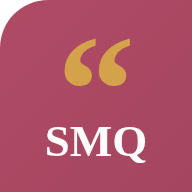
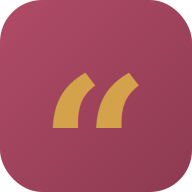
Add files via upload

diff --git a/index.html b/index.html
@@ -3,11 +3,15 @@
 <head>
 <meta charset="utf-8">
 <meta name="viewport" content="width=device-width,initial-scale=1">
-<title>Strong Mom Quotes: Free Quotes and Quote Card Maker</title>
+<title>Strong Mom Quotes: Free Mom Quotes & Quote Card Maker</title>
 <meta name="description" content="Hundreds of original strong mom quotes, free to read, copy and share. Turn any quote into a beautiful Pinterest or Instagram card with our free card maker.">
 <link rel="canonical" href="https://strongmomquotes.com/">
+<meta name="robots" content="index, follow, max-image-preview:large, max-snippet:-1, max-video-preview:-1">
+<meta name="theme-color" content="#A64D63">
+<meta name="keywords" content="strong mom quotes, mom quotes, free mom quotes, mom affirmations, quote card maker, mom quote images, encouraging quotes for moms, Pinterest mom quotes, Instagram mom quotes">
+<meta property="og:locale" content="en_US">
 <meta property="og:type" content="website">
-<meta property="og:title" content="Strong Mom Quotes: Free Quotes and Quote Card Maker">
+<meta property="og:title" content="Strong Mom Quotes: Free Mom Quotes & Quote Card Maker">
 <meta property="og:description" content="Hundreds of original strong mom quotes, free to read, copy and share. Turn any quote into a beautiful shareable card with our free card maker.">
 <meta property="og:url" content="https://strongmomquotes.com/">
 <meta property="og:image" content="https://strongmomquotes.com/og/home.png">
@@ -16,18 +20,18 @@
 <meta name="twitter:image" content="https://strongmomquotes.com/og/home.png">
 <meta property="og:site_name" content="Strong Mom Quotes">
 <meta name="twitter:card" content="summary_large_image">
-<meta name="twitter:title" content="Strong Mom Quotes: Free Quotes and Quote Card Maker">
+<meta name="twitter:title" content="Strong Mom Quotes: Free Mom Quotes & Quote Card Maker">
 <meta name="twitter:description" content="Hundreds of original strong mom quotes, free to read, copy and share. Turn any quote into a beautiful shareable card with our free card maker.">
 <link rel="manifest" href="/manifest.json">
 <link rel="preconnect" href="https://fonts.googleapis.com">
 <link rel="preconnect" href="https://fonts.gstatic.com" crossorigin>
 <link href="https://fonts.googleapis.com/css2?family=Fraunces:ital,wght@0,500;0,600;0,700;1,500&family=Karla:wght@400;700;800&display=swap" rel="stylesheet">
-<link rel="stylesheet" href="/styles.css?v=4">
+<link rel="stylesheet" href="/styles.css?v=5">
 <script async src="https://pagead2.googlesyndication.com/pagead/js/adsbygoogle.js?client=ca-pub-4138594802747479" crossorigin="anonymous"></script>
 <script type="application/ld+json">
 {"@context":"https://schema.org","@graph":[
 {"@type":"Organization","@id":"https://strongmomquotes.com/#org","name":"Strong Mom Quotes","url":"https://strongmomquotes.com/","logo":"https://strongmomquotes.com/icon-512.png","email":"[email redacted]"},
-{"@type":"WebSite","@id":"https://strongmomquotes.com/#site","name":"Strong Mom Quotes","url":"https://strongmomquotes.com/","publisher":{"@id":"https://strongmomquotes.com/#org"}},
+{"@type":"WebSite","@id":"https://strongmomquotes.com/#site","name":"Strong Mom Quotes","alternateName":"SMQ","description":"Free original strong mom quotes, mom affirmations and a free quote card maker for Pinterest, Instagram and stories.","inLanguage":"en","url":"https://strongmomquotes.com/","publisher":{"@id":"https://strongmomquotes.com/#org"}},
 {"@type":"WebApplication","@id":"https://strongmomquotes.com/#app","name":"Strong Mom Quotes Card Maker","url":"https://strongmomquotes.com/app.html","applicationCategory":"DesignApplication","operatingSystem":"Any device with a web browser","offers":{"@type":"Offer","price":"0","priceCurrency":"USD"},"featureList":"Quote card maker with Pinterest, Instagram and story sizes, custom backgrounds and fonts, favorites, write your own quotes, daily quote, works offline after first load, backup and restore","publisher":{"@id":"https://strongmomquotes.com/#org"}}
 ]}
 </script>
@@ -47,6 +51,7 @@
 </script>
 <link rel="icon" type="image/svg+xml" href="/favicon.svg">
 <link rel="icon" type="image/png" sizes="32x32" href="/favicon-32.png">
+<link rel="icon" type="image/png" sizes="48x48" href="/favicon-48.png">
 <link rel="apple-touch-icon" href="/apple-touch-icon.png">
 </head>
 <body>

diff --git a/grandma-affirmations.html b/grandma-affirmations.html
@@ -16,12 +16,13 @@
 <meta name="twitter:description" content="Affirmations for Grandmothers that acknowledge the hard parts, never toxic positivity. Free to read, copy or turn into a card.">
 <link rel="icon" type="image/svg+xml" href="/favicon.svg">
 <link rel="icon" type="image/png" sizes="32x32" href="/favicon-32.png">
+<link rel="icon" type="image/png" sizes="48x48" href="/favicon-48.png">
 <link rel="apple-touch-icon" href="/apple-touch-icon.png">
 <link rel="manifest" href="/manifest.json">
 <link rel="preconnect" href="https://fonts.googleapis.com">
 <link rel="preconnect" href="https://fonts.gstatic.com" crossorigin>
 <link href="https://fonts.googleapis.com/css2?family=Fraunces:ital,wght@0,500;0,600;0,700;1,500&family=Karla:wght@400;700;800&display=swap" rel="stylesheet">
-<link rel="stylesheet" href="/styles.css?v=4">
+<link rel="stylesheet" href="/styles.css?v=5">
 <script async src="https://pagead2.googlesyndication.com/pagead/js/adsbygoogle.js?client=ca-pub-4138594802747479" crossorigin="anonymous"></script>
 <script type="application/ld+json">{"@context": "https://schema.org", "@type": "BreadcrumbList", "itemListElement": [{"@type": "ListItem", "position": 1, "name": "Strong Mom Quotes", "item": "https://strongmomquotes.com/"}, {"@type": "ListItem", "position": 2, "name": "Affirmations", "item": "https://strongmomquotes.com/affirmations-hub.html"}, {"@type": "ListItem", "position": 3, "name": "Affirmations for Grandmothers", "item": "https://strongmomquotes.com/grandma-affirmations.html"}]}</script>
 <script type="application/ld+json">{"@context": "https://schema.org", "@type": "CollectionPage", "name": "Affirmations for Grandmothers | Strong Mom Quotes", "description": "Affirmations for Grandmothers that acknowledge the hard parts, never toxic positivity. Free to read, copy or turn into a card.", "url": "https://strongmomquotes.com/grandma-affirmations.html", "isPartOf": {"@type": "WebSite", "name": "Strong Mom Quotes", "url": "https://strongmomquotes.com/"}}</script>

diff --git a/grandma-captions.html b/grandma-captions.html
@@ -16,12 +16,13 @@
 <meta name="twitter:description" content="Grandma Captions built for the scroll: short, real, copy in one tap. Or drop one onto a matching card. Currently free.">
 <link rel="icon" type="image/svg+xml" href="/favicon.svg">
 <link rel="icon" type="image/png" sizes="32x32" href="/favicon-32.png">
+<link rel="icon" type="image/png" sizes="48x48" href="/favicon-48.png">
 <link rel="apple-touch-icon" href="/apple-touch-icon.png">
 <link rel="manifest" href="/manifest.json">
 <link rel="preconnect" href="https://fonts.googleapis.com">
 <link rel="preconnect" href="https://fonts.gstatic.com" crossorigin>
 <link href="https://fonts.googleapis.com/css2?family=Fraunces:ital,wght@0,500;0,600;0,700;1,500&family=Karla:wght@400;700;800&display=swap" rel="stylesheet">
-<link rel="stylesheet" href="/styles.css?v=4">
+<link rel="stylesheet" href="/styles.css?v=5">
 <script async src="https://pagead2.googlesyndication.com/pagead/js/adsbygoogle.js?client=ca-pub-4138594802747479" crossorigin="anonymous"></script>
 <script type="application/ld+json">{"@context": "https://schema.org", "@type": "BreadcrumbList", "itemListElement": [{"@type": "ListItem", "position": 1, "name": "Strong Mom Quotes", "item": "https://strongmomquotes.com/"}, {"@type": "ListItem", "position": 2, "name": "Captions & Occasions", "item": "https://strongmomquotes.com/captions-hub.html"}, {"@type": "ListItem", "position": 3, "name": "Grandma Captions", "item": "https://strongmomquotes.com/grandma-captions.html"}]}</script>
 <script type="application/ld+json">{"@context": "https://schema.org", "@type": "CollectionPage", "name": "Grandma Captions: One-Liners That Fit the Photo", "description": "Grandma Captions built for the scroll: short, real, copy in one tap. Or drop one onto a matching card. Currently free.", "url": "https://strongmomquotes.com/grandma-captions.html", "isPartOf": {"@type": "WebSite", "name": "Strong Mom Quotes", "url": "https://strongmomquotes.com/"}}</script>

diff --git a/grandma-quotes.html b/grandma-quotes.html
@@ -16,12 +16,13 @@
 <meta name="twitter:description" content="Original grandma quotes, free to read and copy. Turn any one into a shareable card in seconds. Currently free.">
 <link rel="icon" type="image/svg+xml" href="/favicon.svg">
 <link rel="icon" type="image/png" sizes="32x32" href="/favicon-32.png">
+<link rel="icon" type="image/png" sizes="48x48" href="/favicon-48.png">
 <link rel="apple-touch-icon" href="/apple-touch-icon.png">
 <link rel="manifest" href="/manifest.json">
 <link rel="preconnect" href="https://fonts.googleapis.com">
 <link rel="preconnect" href="https://fonts.gstatic.com" crossorigin>
 <link href="https://fonts.googleapis.com/css2?family=Fraunces:ital,wght@0,500;0,600;0,700;1,500&family=Karla:wght@400;700;800&display=swap" rel="stylesheet">
-<link rel="stylesheet" href="/styles.css?v=4">
+<link rel="stylesheet" href="/styles.css?v=5">
 <script async src="https://pagead2.googlesyndication.com/pagead/js/adsbygoogle.js?client=ca-pub-4138594802747479" crossorigin="anonymous"></script>
 <script type="application/ld+json">{"@context": "https://schema.org", "@type": "BreadcrumbList", "itemListElement": [{"@type": "ListItem", "position": 1, "name": "Strong Mom Quotes", "item": "https://strongmomquotes.com/"}, {"@type": "ListItem", "position": 2, "name": "Mom Quote Collections", "item": "https://strongmomquotes.com/collections-hub.html"}, {"@type": "ListItem", "position": 3, "name": "Grandma Quotes", "item": "https://strongmomquotes.com/grandma-quotes.html"}]}</script>
 <script type="application/ld+json">{"@context": "https://schema.org", "@type": "CollectionPage", "name": "Grandma Quotes: Original Words to Read, Copy and Share", "description": "Original grandma quotes, free to read and copy. Turn any one into a shareable card in seconds. Currently free.", "url": "https://strongmomquotes.com/grandma-quotes.html", "isPartOf": {"@type": "WebSite", "name": "Strong Mom Quotes", "url": "https://strongmomquotes.com/"}}</script>

diff --git a/healing-mom-quotes.html b/healing-mom-quotes.html
@@ -16,12 +16,13 @@
 <meta name="twitter:description" content="Original healing mom quotes, free to read and copy, and one tap from a shareable card. Written here, never misattributed.">
 <link rel="icon" type="image/svg+xml" href="/favicon.svg">
 <link rel="icon" type="image/png" sizes="32x32" href="/favicon-32.png">
+<link rel="icon" type="image/png" sizes="48x48" href="/favicon-48.png">
 <link rel="apple-touch-icon" href="/apple-touch-icon.png">
 <link rel="manifest" href="/manifest.json">
 <link rel="preconnect" href="https://fonts.googleapis.com">
 <link rel="preconnect" href="https://fonts.gstatic.com" crossorigin>
 <link href="https://fonts.googleapis.com/css2?family=Fraunces:ital,wght@0,500;0,600;0,700;1,500&family=Karla:wght@400;700;800&display=swap" rel="stylesheet">
-<link rel="stylesheet" href="/styles.css?v=4">
+<link rel="stylesheet" href="/styles.css?v=5">
 <script async src="https://pagead2.googlesyndication.com/pagead/js/adsbygoogle.js?client=ca-pub-4138594802747479" crossorigin="anonymous"></script>
 <script type="application/ld+json">{"@context": "https://schema.org", "@type": "BreadcrumbList", "itemListElement": [{"@type": "ListItem", "position": 1, "name": "Strong Mom Quotes", "item": "https://strongmomquotes.com/"}, {"@type": "ListItem", "position": 2, "name": "Affirmations", "item": "https://strongmomquotes.com/affirmations-hub.html"}, {"@type": "ListItem", "position": 3, "name": "Healing Mom Quotes", "item": "https://strongmomquotes.com/healing-mom-quotes.html"}]}</script>
 <script type="application/ld+json">{"@context": "https://schema.org", "@type": "CollectionPage", "name": "Healing Mom Quotes: Original Words to Read, Copy and Share", "description": "Original healing mom quotes, free to read and copy, and one tap from a shareable card. Written here, never misattributed.", "url": "https://strongmomquotes.com/healing-mom-quotes.html", "isPartOf": {"@type": "WebSite", "name": "Strong Mom Quotes", "url": "https://strongmomquotes.com/"}}</script>

diff --git a/inspirational-mom-quotes.html b/inspirational-mom-quotes.html
@@ -16,12 +16,13 @@
 <meta name="twitter:description" content="Inspirational Mom Quotes: short enough for a caption, a card or a print. Free to copy, or make a matching card.">
 <link rel="icon" type="image/svg+xml" href="/favicon.svg">
 <link rel="icon" type="image/png" sizes="32x32" href="/favicon-32.png">
+<link rel="icon" type="image/png" sizes="48x48" href="/favicon-48.png">
 <link rel="apple-touch-icon" href="/apple-touch-icon.png">
 <link rel="manifest" href="/manifest.json">
 <link rel="preconnect" href="https://fonts.googleapis.com">
 <link rel="preconnect" href="https://fonts.gstatic.com" crossorigin>
 <link href="https://fonts.googleapis.com/css2?family=Fraunces:ital,wght@0,500;0,600;0,700;1,500&family=Karla:wght@400;700;800&display=swap" rel="stylesheet">
-<link rel="stylesheet" href="/styles.css?v=4">
+<link rel="stylesheet" href="/styles.css?v=5">
 <script async src="https://pagead2.googlesyndication.com/pagead/js/adsbygoogle.js?client=ca-pub-4138594802747479" crossorigin="anonymous"></script>
 <script type="application/ld+json">{"@context": "https://schema.org", "@type": "BreadcrumbList", "itemListElement": [{"@type": "ListItem", "position": 1, "name": "Strong Mom Quotes", "item": "https://strongmomquotes.com/"}, {"@type": "ListItem", "position": 2, "name": "Short & Format", "item": "https://strongmomquotes.com/formats-hub.html"}, {"@type": "ListItem", "position": 3, "name": "Inspirational Mom Quotes", "item": "https://strongmomquotes.com/inspirational-mom-quotes.html"}]}</script>
 <script type="application/ld+json">{"@context": "https://schema.org", "@type": "CollectionPage", "name": "Inspirational Mom Quotes: Made to Fit Anywhere", "description": "Inspirational Mom Quotes: short enough for a caption, a card or a print. Free to copy, or make a matching card.", "url": "https://strongmomquotes.com/inspirational-mom-quotes.html", "isPartOf": {"@type": "WebSite", "name": "Strong Mom Quotes", "url": "https://strongmomquotes.com/"}}</script>

diff --git a/loss-affirmations.html b/loss-affirmations.html
@@ -16,12 +16,13 @@
 <meta name="twitter:description" content="Gentle Affirmations After Loss that acknowledge the hard parts, never toxic positivity. Free to read, copy or turn into a card to keep.">
 <link rel="icon" type="image/svg+xml" href="/favicon.svg">
 <link rel="icon" type="image/png" sizes="32x32" href="/favicon-32.png">
+<link rel="icon" type="image/png" sizes="48x48" href="/favicon-48.png">
 <link rel="apple-touch-icon" href="/apple-touch-icon.png">
 <link rel="manifest" href="/manifest.json">
 <link rel="preconnect" href="https://fonts.googleapis.com">
 <link rel="preconnect" href="https://fonts.gstatic.com" crossorigin>
 <link href="https://fonts.googleapis.com/css2?family=Fraunces:ital,wght@0,500;0,600;0,700;1,500&family=Karla:wght@400;700;800&display=swap" rel="stylesheet">
-<link rel="stylesheet" href="/styles.css?v=4">
+<link rel="stylesheet" href="/styles.css?v=5">
 <script async src="https://pagead2.googlesyndication.com/pagead/js/adsbygoogle.js?client=ca-pub-4138594802747479" crossorigin="anonymous"></script>
 <script type="application/ld+json">{"@context": "https://schema.org", "@type": "BreadcrumbList", "itemListElement": [{"@type": "ListItem", "position": 1, "name": "Strong Mom Quotes", "item": "https://strongmomquotes.com/"}, {"@type": "ListItem", "position": 2, "name": "Affirmations", "item": "https://strongmomquotes.com/affirmations-hub.html"}, {"@type": "ListItem", "position": 3, "name": "Gentle Affirmations After Loss", "item": "https://strongmomquotes.com/loss-affirmations.html"}]}</script>
 <script type="application/ld+json">{"@context": "https://schema.org", "@type": "CollectionPage", "name": "Gentle Affirmations After Loss | Strong Mom Quotes", "description": "Gentle Affirmations After Loss that acknowledge the hard parts, never toxic positivity. Free to read, copy or turn into a card to keep.", "url": "https://strongmomquotes.com/loss-affirmations.html", "isPartOf": {"@type": "WebSite", "name": "Strong Mom Quotes", "url": "https://strongmomquotes.com/"}}</script>

diff --git a/missing-my-mom-quotes.html b/missing-my-mom-quotes.html
@@ -16,12 +16,13 @@
 <meta name="twitter:description" content="Original missing my mom quotes, free to read and copy, and one tap from a shareable card. Written here, never misattributed.">
 <link rel="icon" type="image/svg+xml" href="/favicon.svg">
 <link rel="icon" type="image/png" sizes="32x32" href="/favicon-32.png">
+<link rel="icon" type="image/png" sizes="48x48" href="/favicon-48.png">
 <link rel="apple-touch-icon" href="/apple-touch-icon.png">
 <link rel="manifest" href="/manifest.json">
 <link rel="preconnect" href="https://fonts.googleapis.com">
 <link rel="preconnect" href="https://fonts.gstatic.com" crossorigin>
 <link href="https://fonts.googleapis.com/css2?family=Fraunces:ital,wght@0,500;0,600;0,700;1,500&family=Karla:wght@400;700;800&display=swap" rel="stylesheet">
-<link rel="stylesheet" href="/styles.css?v=4">
+<link rel="stylesheet" href="/styles.css?v=5">
 <script async src="https://pagead2.googlesyndication.com/pagead/js/adsbygoogle.js?client=ca-pub-4138594802747479" crossorigin="anonymous"></script>
 <script type="application/ld+json">{"@context": "https://schema.org", "@type": "BreadcrumbList", "itemListElement": [{"@type": "ListItem", "position": 1, "name": "Strong Mom Quotes", "item": "https://strongmomquotes.com/"}, {"@type": "ListItem", "position": 2, "name": "Quotes About", "item": "https://strongmomquotes.com/quotes-about-hub.html"}, {"@type": "ListItem", "position": 3, "name": "Missing My Mom Quotes", "item": "https://strongmomquotes.com/missing-my-mom-quotes.html"}]}</script>
 <script type="application/ld+json">{"@context": "https://schema.org", "@type": "CollectionPage", "name": "Missing My Mom Quotes | Strong Mom Quotes", "description": "Original missing my mom quotes, free to read and copy, and one tap from a shareable card. Written here, never misattributed.", "url": "https://strongmomquotes.com/missing-my-mom-quotes.html", "isPartOf": {"@type": "WebSite", "name": "Strong Mom Quotes", "url": "https://strongmomquotes.com/"}}</script>

diff --git a/mom-and-daughter-captions.html b/mom-and-daughter-captions.html
@@ -16,12 +16,13 @@
 <meta name="twitter:description" content="Mom and Daughter Captions built for the scroll: short, real, copy in one tap. Or drop one onto a matching card. Currently free.">
 <link rel="icon" type="image/svg+xml" href="/favicon.svg">
 <link rel="icon" type="image/png" sizes="32x32" href="/favicon-32.png">
+<link rel="icon" type="image/png" sizes="48x48" href="/favicon-48.png">
 <link rel="apple-touch-icon" href="/apple-touch-icon.png">
 <link rel="manifest" href="/manifest.json">
 <link rel="preconnect" href="https://fonts.googleapis.com">
 <link rel="preconnect" href="https://fonts.gstatic.com" crossorigin>
 <link href="https://fonts.googleapis.com/css2?family=Fraunces:ital,wght@0,500;0,600;0,700;1,500&family=Karla:wght@400;700;800&display=swap" rel="stylesheet">
-<link rel="stylesheet" href="/styles.css?v=4">
+<link rel="stylesheet" href="/styles.css?v=5">
 <script async src="https://pagead2.googlesyndication.com/pagead/js/adsbygoogle.js?client=ca-pub-4138594802747479" crossorigin="anonymous"></script>
 <script type="application/ld+json">{"@context": "https://schema.org", "@type": "BreadcrumbList", "itemListElement": [{"@type": "ListItem", "position": 1, "name": "Strong Mom Quotes", "item": "https://strongmomquotes.com/"}, {"@type": "ListItem", "position": 2, "name": "Captions & Occasions", "item": "https://strongmomquotes.com/captions-hub.html"}, {"@type": "ListItem", "position": 3, "name": "Mom and Daughter Captions", "item": "https://strongmomquotes.com/mom-and-daughter-captions.html"}]}</script>
 <script type="application/ld+json">{"@context": "https://schema.org", "@type": "CollectionPage", "name": "Mom and Daughter Captions: One-Liners That Fit the Photo", "description": "Mom and Daughter Captions built for the scroll: short, real, copy in one tap. Or drop one onto a matching card. Currently free.", "url": "https://strongmomquotes.com/mom-and-daughter-captions.html", "isPartOf": {"@type": "WebSite", "name": "Strong Mom Quotes", "url": "https://strongmomquotes.com/"}}</script>

diff --git a/mom-and-son-captions.html b/mom-and-son-captions.html
@@ -16,12 +16,13 @@
 <meta name="twitter:description" content="Mom and Son Captions built for the scroll: short, real, copy in one tap. Or drop one onto a matching card. Currently free.">
 <link rel="icon" type="image/svg+xml" href="/favicon.svg">
 <link rel="icon" type="image/png" sizes="32x32" href="/favicon-32.png">
+<link rel="icon" type="image/png" sizes="48x48" href="/favicon-48.png">
 <link rel="apple-touch-icon" href="/apple-touch-icon.png">
 <link rel="manifest" href="/manifest.json">
 <link rel="preconnect" href="https://fonts.googleapis.com">
 <link rel="preconnect" href="https://fonts.gstatic.com" crossorigin>
 <link href="https://fonts.googleapis.com/css2?family=Fraunces:ital,wght@0,500;0,600;0,700;1,500&family=Karla:wght@400;700;800&display=swap" rel="stylesheet">
-<link rel="stylesheet" href="/styles.css?v=4">
+<link rel="stylesheet" href="/styles.css?v=5">
 <script async src="https://pagead2.googlesyndication.com/pagead/js/adsbygoogle.js?client=ca-pub-4138594802747479" crossorigin="anonymous"></script>
 <script type="application/ld+json">{"@context": "https://schema.org", "@type": "BreadcrumbList", "itemListElement": [{"@type": "ListItem", "position": 1, "name": "Strong Mom Quotes", "item": "https://strongmomquotes.com/"}, {"@type": "ListItem", "position": 2, "name": "Captions & Occasions", "item": "https://strongmomquotes.com/captions-hub.html"}, {"@type": "ListItem", "position": 3, "name": "Mom and Son Captions", "item": "https://strongmomquotes.com/mom-and-son-captions.html"}]}</script>
 <script type="application/ld+json">{"@context": "https://schema.org", "@type": "CollectionPage", "name": "Mom and Son Captions: One-Liners That Fit the Photo", "description": "Mom and Son Captions built for the scroll: short, real, copy in one tap. Or drop one onto a matching card. Currently free.", "url": "https://strongmomquotes.com/mom-and-son-captions.html", "isPartOf": {"@type": "WebSite", "name": "Strong Mom Quotes", "url": "https://strongmomquotes.com/"}}</script>

diff --git a/mom-birthday-captions.html b/mom-birthday-captions.html
@@ -16,12 +16,13 @@
 <meta name="twitter:description" content="Birthday Captions From Mom built for the scroll: short, real, copy in one tap. Or drop one onto a matching card. Currently free.">
 <link rel="icon" type="image/svg+xml" href="/favicon.svg">
 <link rel="icon" type="image/png" sizes="32x32" href="/favicon-32.png">
+<link rel="icon" type="image/png" sizes="48x48" href="/favicon-48.png">
 <link rel="apple-touch-icon" href="/apple-touch-icon.png">
 <link rel="manifest" href="/manifest.json">
 <link rel="preconnect" href="https://fonts.googleapis.com">
 <link rel="preconnect" href="https://fonts.gstatic.com" crossorigin>
 <link href="https://fonts.googleapis.com/css2?family=Fraunces:ital,wght@0,500;0,600;0,700;1,500&family=Karla:wght@400;700;800&display=swap" rel="stylesheet">
-<link rel="stylesheet" href="/styles.css?v=4">
+<link rel="stylesheet" href="/styles.css?v=5">
 <script async src="https://pagead2.googlesyndication.com/pagead/js/adsbygoogle.js?client=ca-pub-4138594802747479" crossorigin="anonymous"></script>
 <script type="application/ld+json">{"@context": "https://schema.org", "@type": "BreadcrumbList", "itemListElement": [{"@type": "ListItem", "position": 1, "name": "Strong Mom Quotes", "item": "https://strongmomquotes.com/"}, {"@type": "ListItem", "position": 2, "name": "Captions & Occasions", "item": "https://strongmomquotes.com/captions-hub.html"}, {"@type": "ListItem", "position": 3, "name": "Birthday Captions From Mom", "item": "https://strongmomquotes.com/mom-birthday-captions.html"}]}</script>
 <script type="application/ld+json">{"@context": "https://schema.org", "@type": "CollectionPage", "name": "Birthday Captions From Mom: One-Liners That Fit the Photo", "description": "Birthday Captions From Mom built for the scroll: short, real, copy in one tap. Or drop one onto a matching card. Currently free.", "url": "https://strongmomquotes.com/mom-birthday-captions.html", "isPartOf": {"@type": "WebSite", "name": "Strong Mom Quotes", "url": "https://strongmomquotes.com/"}}</script>

diff --git a/mom-guilt-affirmations.html b/mom-guilt-affirmations.html
@@ -16,12 +16,13 @@
 <meta name="twitter:description" content="Mom Guilt Affirmations that acknowledge the hard parts, never toxic positivity. Free to read, copy or turn into a card to keep.">
 <link rel="icon" type="image/svg+xml" href="/favicon.svg">
 <link rel="icon" type="image/png" sizes="32x32" href="/favicon-32.png">
+<link rel="icon" type="image/png" sizes="48x48" href="/favicon-48.png">
 <link rel="apple-touch-icon" href="/apple-touch-icon.png">
 <link rel="manifest" href="/manifest.json">
 <link rel="preconnect" href="https://fonts.googleapis.com">
 <link rel="preconnect" href="https://fonts.gstatic.com" crossorigin>
 <link href="https://fonts.googleapis.com/css2?family=Fraunces:ital,wght@0,500;0,600;0,700;1,500&family=Karla:wght@400;700;800&display=swap" rel="stylesheet">
-<link rel="stylesheet" href="/styles.css?v=4">
+<link rel="stylesheet" href="/styles.css?v=5">
 <script async src="https://pagead2.googlesyndication.com/pagead/js/adsbygoogle.js?client=ca-pub-4138594802747479" crossorigin="anonymous"></script>
 <script type="application/ld+json">{"@context": "https://schema.org", "@type": "BreadcrumbList", "itemListElement": [{"@type": "ListItem", "position": 1, "name": "Strong Mom Quotes", "item": "https://strongmomquotes.com/"}, {"@type": "ListItem", "position": 2, "name": "Affirmations", "item": "https://strongmomquotes.com/affirmations-hub.html"}, {"@type": "ListItem", "position": 3, "name": "Mom Guilt Affirmations", "item": "https://strongmomquotes.com/mom-guilt-affirmations.html"}]}</script>
 <script type="application/ld+json">{"@context": "https://schema.org", "@type": "CollectionPage", "name": "Mom Guilt Affirmations: Honest Words That Actually Help", "description": "Mom Guilt Affirmations that acknowledge the hard parts, never toxic positivity. Free to read, copy or turn into a card to keep.", "url": "https://strongmomquotes.com/mom-guilt-affirmations.html", "isPartOf": {"@type": "WebSite", "name": "Strong Mom Quotes", "url": "https://strongmomquotes.com/"}}</script>